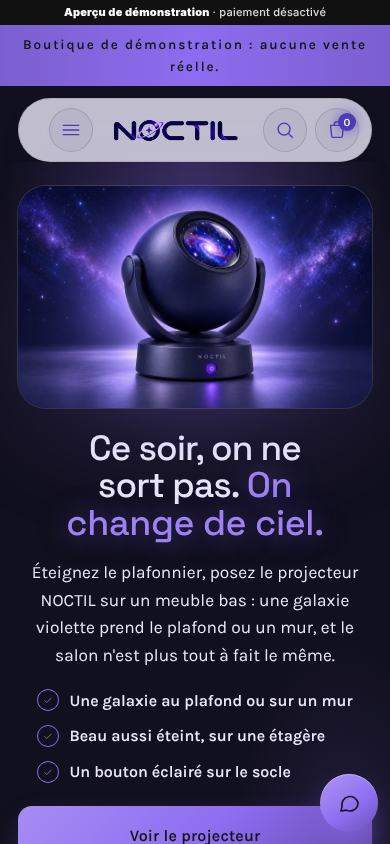
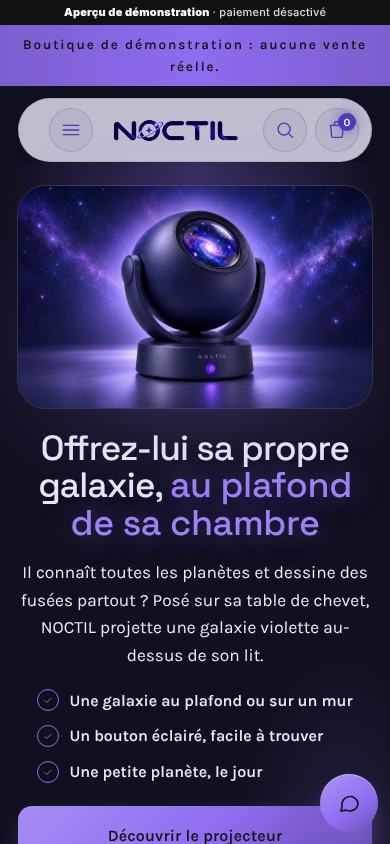
NOCTIL : « offrir à son enfant sa propre galaxie dans sa chambre », l'enfant utilise, le parent achète (consigne de Thomas, 21 h 45)
- Cible adulte retirée ; accueil, fiche, « Où poser sa galaxie », aide, menus, pied, SEO réécrits pour le cadeau et
  l'imagination de l'enfant passionné d'espace.
- Aucune promesse sur le coucher, le sommeil ou la peur du noir (objection traitée honnêtement) ; âge conseillé,
  alimentation et réglages non renseignés, question « À partir de quel âge ? » prête dans l'éditeur.
- Visuels : aucune chambre d'enfant dans le kit, signalé ; l'objet seul, la vue au-dessus du lit et l'alcôve passent
  devant, les scènes d'adultes deviennent « ailleurs dans la maison ». Captures régénérées.

Claude-Session: https://claude.ai/code/session_01EKtK8Za16S8DnNDefXRRF7

Changed region(s): [[0.0615, 0.4929, 0.9538, 0.8009], [0.1846, 0.8626, 0.8308, 0.9242], [0.2769, 0.9858, 0.7385, 1.0]]

diff --git a/tests/noctil-traverse-fixtures.ts b/tests/noctil-traverse-fixtures.ts
@@ -80,23 +80,30 @@ export const TODO = (what: string) => `[À compléter : ${what}]`;
 const DEMO_BANNER = "Boutique de démonstration : aucune vente réelle.";
 export const ORDER_FAQ = (brand: string): [string, string] => ["Peut-on commander aujourd'hui ?", `Pas encore : la boutique ${brand} présentée ici est une démonstration. Aucune commande n'y est enregistrée et aucun paiement n'est demandé.`];
 
-// NOCTIL — fiche de stratégie (consigne du 21 octobre, 19 h 50 ; hypothèse éditoriale, pas une étude). Une seule cible :
-//  1. cible : un adulte qui rentre chez lui le soir et voudrait que sa soirée à la maison ressemble à autre chose qu'au
-//     plafonnier et à l'écran (salon, bureau, coin lecture : les pièces des photos) ;
-//  2. tension : « Le soir, c'est toujours le même salon sous le même plafonnier. » ;
-//  3. désir : changer d'atmosphère sans sortir — angle unique : ce soir, on ne sort pas, on change de ciel ;
-//  4. promesse tenable : une galaxie projetée au plafond ou sur un mur, et un bel objet une fois éteint ; faits = visuels.
-//     Aucun bienfait sur le sommeil ou le bien-être ; alimentation, réglages, dimensions inconnus ;
-//  5. objections : où s'affiche la galaxie, faut-il le noir complet, à quoi il ressemble le jour, prix et réglages
-//     (information dédiée) ;
-//  6. parcours : ouverture (se reconnaître) → ce qui change → où le poser → l'idée → l'objet de près → appel → FAQ → inscription.
+// NOCTIL — fiche de stratégie (consigne de Thomas du 21 octobre, 21 h 45 ; brief, hypothèse éditoriale). Décision
+// explicite : les ENFANTS sont les utilisateurs, le PARENT est l'acheteur.
+//  utilisateur : un enfant passionné d'espace (planètes, fusées, étoiles) ; acheteur : son parent, qui cherche une surprise ;
+//  situation d'achat : un anniversaire, Noël, ou l'envie de lui faire plaisir ;
+//  tension (mots du parent) : « Il connaît toutes les planètes ; je voudrais lui offrir autre chose qu'un livre de plus. » ;
+//  désir : voir son enfant émerveillé, et lui laisser imaginer ;
+//  angle unique : offrir à son enfant sa propre galaxie dans sa chambre ;
+//  promesse tenable : une galaxie violette projetée au plafond ou sur un mur ; un bouton éclairé facile à repérer ; un bel
+//  objet le jour ; faits = visuels du kit ;
+//  objections : où s'affiche la galaxie, peut-il l'allumer seul, l'aide-t-il le soir (aucune promesse), et le jour, âge
+//  conseillé et alimentation (non renseignés : à vérifier avant d'offrir) ;
+//  exclusions : aucun effet sur le coucher, le sommeil ou la peur du noir ; aucun âge, réglage, autonomie ou dimension
+//  inventés ; aucune personne ajoutée. Visuels : le kit ne contient AUCUNE chambre d'enfant (salon cinéma, bureau, loft,
+//  chambre et coin lecture d'adultes) : la chambre est montrée par la vue « au-dessus du lit », l'alcôve à coussins et
+//  l'objet seul ; les autres scènes sont présentées comme « ailleurs dans la maison ».
 export const NOCTIL_FAQ: [string, string][] = [
-  ["Où la galaxie s'affiche-t-elle ?", "Au plafond ou sur un mur, selon l'endroit où vous posez NOCTIL et la direction de son objectif. Nos images montrent les deux."],
-  ["Faut-il le noir complet ?", "Plus la pièce est sombre, plus la galaxie ressort. Sur nos photos, la grande lumière est éteinte ; dans le coin lecture, une lampe reste allumée à côté."],
-  ["Et le jour, à quoi ressemble-t-il ?", "À une sphère indigo mate sur son arceau, posée sur un socle rond : sur une étagère, c'est un objet de décor. Toutes les vues sont sur la fiche."],
-  ["Que puis-je faire dans cette boutique de démonstration ?", "Faire le tour du projecteur et le voir dans plusieurs pièces. Le prix, l'alimentation, les réglages et les dimensions ne sont pas encore renseignés, et la commande est désactivée."],
+  ["Où la galaxie s'affiche-t-elle ?", "Au plafond ou sur un mur, selon l'endroit où vous posez NOCTIL et la direction de son objectif. Sur une table de chevet, objectif vers le haut, elle couvre le plafond au-dessus du lit."],
+  ["Mon enfant peut-il l'allumer seul ?", "Le bouton est sur le socle, éclairé de violet : il se repère même dans la pénombre. L'âge conseillé et l'alimentation ne sont pas encore renseignés ; vérifiez-les avant de le lui confier."],
+  ["L'aide-t-il le soir, au coucher ou s'il a peur du noir ?", "Nous ne promettons rien de tel. NOCTIL est un décor à regarder et à raconter : une galaxie au plafond, pour rêver d'espace."],
+  ["Et le jour, à quoi ressemble-t-il ?", "À une sphère indigo mate sur son arceau, comme une petite planète posée sur un socle rond : sur une étagère, c'est un objet de décor."],
+  ["Que puis-je faire dans cette boutique de démonstration ?", "Faire le tour du projecteur et le voir dans plusieurs pièces. Le prix, l'âge conseillé, l'alimentation, les réglages et les dimensions ne sont pas encore renseignés, et la commande est désactivée."],
 ];
 export const NOCTIL_FAQ_PENDING: [string, string][] = [
+  ["À partir de quel âge ?", TODO("âge conseillé et consignes de sécurité")],
   ["Comment NOCTIL est-il alimenté ?", TODO("alimentation, câble ou batterie, autonomie")],
   ["Quels réglages propose-t-il ?", TODO("luminosité, couleurs, modes, minuterie, télécommande ou application")],
   ["Quelles sont ses dimensions et son poids ?", TODO("hauteur, diamètre, poids")],
@@ -135,7 +142,7 @@ const BRANDS: Record<KitId, Brand> = {
     name: "NOCTIL", product: "Projecteur de galaxies NOCTIL", category: "Projecteur de galaxies",
     summary: "Projecteur de galaxies : sphère indigo mate tenue par un arceau, objectif rond à l'avant, socle rond avec un bouton éclairé de violet ; la galaxie s'affiche au plafond ou sur un mur.",
     facts: [["Silhouette", "sphère indigo mate sur un arceau, socle rond"], ["Commande visible", "un bouton éclairé de violet sur le socle"]],
-    tagline: "La nuit, à portée de plafond.", story: "NOCTIL est né d'une envie simple : garder un morceau de ciel nocturne à la maison.", positioning: "Un projecteur de galaxies pour le salon, la chambre et les coins où l'on aime éteindre la grande lumière.",
+    tagline: "Sa galaxie, au plafond de sa chambre.", story: "NOCTIL est né pour les enfants qui collectionnent les planètes : leur offrir un morceau de ciel à eux, au-dessus de leur lit.", positioning: "Un projecteur de galaxies à offrir aux enfants passionnés d'espace, pour leur chambre.",
     // Indigo et violet relevés sur le logo et les visuels ; lavande des vues produit ; nuit profonde.
     palette: { primary: "#4B3BB8", secondary: "#ECE8FA", accent: "#8E6CF0", light: "#ECE8FA", dark: "#0D0B26" },
   },
@@ -300,79 +307,79 @@ export type Kit = ReturnType<typeof kit>;
 function curateNoctil(k: Kit) {
   const { spec, img, section, hide, overlay, faq, productHref } = k;
   k.demoMeta();
-  spec.store.seo = { title: "NOCTIL | Projecteur de galaxies : ce soir, changez de ciel sans sortir", description: "Éteignez le plafonnier : NOCTIL projette une galaxie au plafond ou sur un mur du salon, du bureau ou du coin lecture. Beau aussi éteint, sur une étagère." };
+  spec.store.seo = { title: "NOCTIL | Offrez à votre enfant sa propre galaxie, dans sa chambre", description: "Pour l'enfant passionné d'espace : NOCTIL projette une galaxie violette au plafond de sa chambre. Un cadeau à regarder et à raconter, beau aussi éteint." };
   k.product({
     title: "Projecteur de galaxies NOCTIL",
-    description_html: p("Son rôle : changer l'atmosphère d'une pièce le soir, sans sortir. Posé sur un meuble, il projette une galaxie au plafond ou sur un mur.") + p("Ce qu'on voit : une sphère indigo mate tenue par un arceau, un objectif rond ouvert sur une galaxie, un socle rond au bouton éclairé de violet.") + p("Où le poser : au salon, au bureau, dans le coin lecture ou sur une table de chevet ; nos photos le montrent dans chacune de ces pièces. Éteint, il reste un objet de décor."),
+    description_html: p("Pour qui : l'enfant qui connaît les planètes par cœur, et le parent qui veut lui faire une surprise. Posé sur sa table de chevet, NOCTIL projette une galaxie violette au plafond de sa chambre.") + p("Ce qu'on voit : une sphère indigo mate, comme une petite planète, tenue par un arceau ; un objectif rond ouvert sur une galaxie ; un socle rond au bouton éclairé de violet.") + p("Avant d'offrir : l'âge conseillé, l'alimentation et les réglages ne sont pas encore renseignés dans cette démonstration."),
     images: ["produit-01.webp", "produit-02.webp", "produit-03.webp", "produit-04.webp", "produit-05.webp"],
-    tags: ["projecteur", "galaxie", "décoration de nuit"],
-    seo: { title: "Projecteur de galaxies NOCTIL : vues, détails, mise en place", description: "Découvrez NOCTIL, projecteur de galaxies : sphère indigo sur arceau, objectif et socle lumineux en gros plan, et comment le placer dans une pièce." },
+    tags: ["projecteur", "galaxie", "cadeau", "chambre d'enfant"],
+    seo: { title: "NOCTIL : le projecteur de galaxies des enfants passionnés d'espace", description: "Une galaxie violette au plafond de sa chambre : NOCTIL en détail, sphère indigo, objectif, socle et bouton éclairé, et comment le placer." },
   });
 
-  // ─── Accueil : une narration de nuit, pièce par pièce. ──────────────────────────────────────────────────────────
+  // ─── Accueil : le cadeau, la chambre, l'imagination. ────────────────────────────────────────────────────────────
   overlay("index", [
-    section("cv-hero", { ...img("ambiance-10.webp"), image_ratio: "wide", focus_x: 50, focus_y: 50, layout: "stacked", heading: "Ce soir, on ne sort pas.", heading_accent: "On change de ciel.", heading_tag: "h1", text: p("Éteignez le plafonnier, posez le projecteur NOCTIL sur un meuble bas : une galaxie violette prend le plafond ou un mur, et le salon n'est plus tout à fait le même."), button_label: "Voir le projecteur", button_link: productHref, rating_text: "", rating_note: "", guarantee_text: "", animation: "fade" }, [
+    section("cv-hero", { ...img("ambiance-10.webp"), image_ratio: "wide", focus_x: 50, focus_y: 50, layout: "stacked", heading: "Offrez-lui sa propre galaxie,", heading_accent: "au plafond de sa chambre", heading_tag: "h1", text: p("Il connaît toutes les planètes et dessine des fusées partout ? Posé sur sa table de chevet, NOCTIL projette une galaxie violette au-dessus de son lit."), button_label: "Découvrir le projecteur", button_link: productHref, rating_text: "", rating_note: "", guarantee_text: "", animation: "fade" }, [
       { type: "check", settings: { text: "Une galaxie au plafond ou sur un mur" } },
-      { type: "check", settings: { text: "Beau aussi éteint, sur une étagère" } },
-      { type: "check", settings: { text: "Un bouton éclairé sur le socle" } },
+      { type: "check", settings: { text: "Un bouton éclairé, facile à trouver" } },
+      { type: "check", settings: { text: "Une petite planète, le jour" } },
     ]),
-    section("features-grid", { eyebrow: "Ce qui change", heading: "La même pièce, <em>une autre soirée</em>", layout: "grid", columns: 4, columns_mobile: "2", style: "glow", heading_align: "center", link_label: "", link: "" }, [
-      { type: "feature", settings: { icon: "star", title: "Le plafond devient un ciel", text: p("La galaxie se déploie au-dessus de vous : le plafond devient le décor de la soirée."), link_label: "", link: "" } },
-      { type: "feature", settings: { icon: "waves", title: "Des murs en profondeur", text: p("Projetée sur un mur, la lumière violette et bleue donne du relief aux pièces les plus simples."), link_label: "", link: "" } },
-      { type: "feature", settings: { icon: "sparkle", title: "Beau même éteint", text: p("Sphère indigo mate, socle rond, nom discret : NOCTIL a sa place sur une étagère en plein jour."), link_label: "", link: "" } },
-      { type: "feature", settings: { icon: "hand", title: "Un bouton, en vue", text: p("Sur le socle, un bouton éclairé de violet : on le trouve même dans la pénombre."), link_label: "", link: "" } },
+    section("features-grid", { eyebrow: "Ce qu'il découvre", heading: "Sa chambre, <em>son univers</em>", layout: "grid", columns: 4, columns_mobile: "2", style: "glow", heading_align: "center", link_label: "", link: "" }, [
+      { type: "feature", settings: { icon: "star", title: "Un ciel rien qu'à lui", text: p("Allongé sur son lit, il lève les yeux : la galaxie couvre le plafond."), link_label: "", link: "" } },
+      { type: "feature", settings: { icon: "waves", title: "Des voyages à inventer", text: p("Une spirale violette et des milliers de points lumineux : de quoi imaginer des expéditions entre les étoiles."), link_label: "", link: "" } },
+      { type: "feature", settings: { icon: "sparkle", title: "Une petite planète", text: p("Le jour, la sphère indigo reste posée sur son étagère, comme un astre de collection."), link_label: "", link: "" } },
+      { type: "feature", settings: { icon: "hand", title: "Un bouton qu'il trouve", text: p("Sur le socle, un bouton éclairé de violet, visible dans la pénombre."), link_label: "", link: "" } },
     ]),
-    section("cv-gallery", { layout: "carousel", ratio: "portrait", eyebrow: "Pièce par pièce", heading: "Où le poser", heading_accent: "ce soir", text: p("Le coin lecture, la table de chevet, une alcôve, la table basse : la même galaxie, quatre soirées différentes."), ai_label: "" }, [
-      { type: "image", settings: { ...img("ambiance-07.webp"), caption: "Le coin lecture" } },
+    section("cv-gallery", { layout: "carousel", ratio: "portrait", eyebrow: "Dans la maison", heading: "Sa chambre d'abord,", heading_accent: "et ailleurs ensuite", text: p("Au-dessus du lit, dans un coin à coussins, au salon pour une histoire du soir : la galaxie se déplace avec lui."), ai_label: "" }, [
       { type: "image", settings: { ...img("ambiance-09.webp"), caption: "Au-dessus du lit" } },
-      { type: "image", settings: { ...img("ambiance-04.webp"), caption: "L'alcôve lavande" } },
-      { type: "image", settings: { ...img("ambiance-05.webp"), caption: "Un ciel violet au plafond" } },
+      { type: "image", settings: { ...img("ambiance-04.webp"), caption: "Une alcôve à coussins, sous les étoiles" } },
+      { type: "image", settings: { ...img("ambiance-07.webp"), caption: "Une histoire au coin lecture" } },
+      { type: "image", settings: { ...img("ambiance-05.webp"), caption: "Tout le plafond en violet" } },
     ]),
-    section("image-with-text", { ...img("ambiance-01.webp"), layout: "overlap", ratio: "portrait", reveal: "up", parallax: false, eyebrow: "L'idée", heading: "Quand le jour se retire, la pièce change de taille", text: p("Au crépuscule, la ville s'allume derrière le voilage. On éteint la grande lumière, NOCTIL prend le relais : le plafond recule, la soirée commence autrement."), button_label: "Voir les pièces", button_link: "/pages/univers" }),
-    section("cv-cards", { layout: "columns", heading: "Éteint,", heading_accent: "un objet de décor", text: p("En plein jour, voici ce qu'on voit sur l'étagère.") }, [
+    section("image-with-text", { ...img("ambiance-01.webp"), layout: "overlap", ratio: "portrait", reveal: "up", parallax: false, eyebrow: "Le moment", heading: "Quand le jour tombe, son univers s'allume", text: p("Les rideaux se ferment, la grande lumière s'éteint, la galaxie apparaît. Un rendez-vous qu'un petit passionné d'espace peut attendre toute la journée."), button_label: "Voir où le poser", button_link: "/pages/univers" }),
+    section("cv-cards", { layout: "columns", heading: "Le jour,", heading_accent: "une planète sur l'étagère", text: p("Éteint, NOCTIL reste un objet qu'on a plaisir à regarder.") }, [
       { type: "card", settings: { ...img("produit-04.webp"), title: "L'objectif", text: p("Un objectif rond et cerclé, où l'on voit déjà la galaxie.") } },
-      { type: "card", settings: { ...img("produit-05.webp"), title: "Le socle et son bouton", text: p("Un socle rond, le nom NOCTIL et un bouton éclairé de violet.") } },
+      { type: "card", settings: { ...img("produit-05.webp"), title: "Le socle et son bouton", text: p("Le nom NOCTIL et un bouton éclairé de violet, à portée de petite main.") } },
       { type: "card", settings: { ...img("produit-02.webp"), title: "La sphère sur son arceau", text: p("De profil : la sphère tenue entre les deux branches de son arceau.") } },
     ]),
-    section("cta-banner", { ...img("ambiance-08.webp"), heading: "Faites entrer la nuit dans votre salon", text: p("Toutes les vues de NOCTIL et où le poser, sur sa fiche."), button_label: "Voir le projecteur", button_link: productHref, style: "center", parallax: false, overlay: 55 }),
-    faq("Avant de l'allumer", NOCTIL_FAQ.slice(0, 4), "cards", "stacked", "Où s'affiche la galaxie, le noir complet, l'objet le jour, ce que permet la démonstration."),
-    section("newsletter", { eyebrow: "Nouvelles de NOCTIL", heading: "Être prévenu quand NOCTIL ouvre", text: p("Un e-mail à l'ouverture de la boutique. Rien d'autre."), button_label: "Me prévenir", preview_note: true, legal: p("Désinscription possible à tout moment depuis chaque e-mail.") }),
+    section("cta-banner", { ...img("ambiance-08.webp"), heading: "Le cadeau qui fait lever les yeux", text: p("Anniversaire, Noël ou simple surprise : toutes les vues de NOCTIL sont sur sa fiche."), button_label: "Découvrir le projecteur", button_link: productHref, style: "center", parallax: false, overlay: 55 }),
+    faq("Avant de l'offrir", NOCTIL_FAQ.slice(0, 5), "cards", "stacked", "Où s'affiche la galaxie, l'allumer seul, le soir, l'objet le jour, ce que permet la démonstration."),
+    section("newsletter", { eyebrow: "Nouvelles de NOCTIL", heading: "Être prévenu quand NOCTIL ouvre", text: p("Un e-mail à l'ouverture de la boutique, pour préparer la surprise. Rien d'autre."), button_label: "Me prévenir", preview_note: true, legal: p("Désinscription possible à tout moment depuis chaque e-mail.") }),
   ]);
 
   // ─── Fiche produit ──────────────────────────────────────────────────────────────────────────────────────────────
   k.mainProduct({
-    eyebrow: "Projecteur de galaxies · pour le soir",
-    text: "Éteignez le plafonnier, tournez l'objectif vers le plafond ou un mur : une galaxie violette change l'atmosphère de la pièce.",
-    highlights: "Une galaxie au plafond ou sur un mur\nSphère indigo mate sur un arceau\nUn bouton éclairé sur le socle\nPour le salon, la chambre et le bureau",
+    eyebrow: "Projecteur de galaxies · à offrir",
+    text: "Pour l'enfant qui collectionne les planètes : posé sur sa table de chevet, NOCTIL projette une galaxie violette au plafond de sa chambre.",
+    highlights: "Une galaxie au plafond ou sur un mur\nUn bouton éclairé, facile à trouver\nUne sphère indigo, comme une petite planète\nUn cadeau pour les passionnés d'espace",
     description: spec.store.product.description_html,
-    specs: "alimentation et autonomie, luminosité, couleurs et modes, minuterie, télécommande ou application, dimensions, poids, matériaux, certifications",
+    specs: "âge conseillé, alimentation et autonomie, luminosité, couleurs et modes, minuterie, télécommande ou application, dimensions, poids, matériaux, certifications",
     box: "contenu exact du coffret",
     shipping: "zones, délais et frais de livraison ; délai et conditions de retour ; durée de garantie",
     settings: { gallery_layout: "carousel", gallery_ratio: "square", enable_zoom: true, sticky_bar: true, color_scheme: "scheme-1" },
   });
   overlay(k.productKey(), [
-    section("cv-ingredients", { layout: "cards", columns: 3, eyebrow: "Composition visible", heading: "Ce qui compose", heading_accent: "NOCTIL", text: p("Les éléments que l'on voit sur l'objet, du haut vers le bas."), note: "", image_asset: "" }, [
+    section("cv-ingredients", { layout: "cards", columns: 3, eyebrow: "Ce qu'on voit", heading: "Une petite planète,", heading_accent: "pièce par pièce", text: p("Les éléments que l'on voit sur l'objet, du haut vers le bas."), note: "", image_asset: "" }, [
       { type: "ingredient", settings: { icon: "globe", name: "La sphère", role: "Corps rond, indigo mat, qui porte l'objectif.", note: "", badge: "", image_asset: "" } },
-      { type: "ingredient", settings: { icon: "sparkle", name: "L'objectif", role: "Lentille ronde et cerclée, côté face.", note: "", badge: "", image_asset: "" } },
+      { type: "ingredient", settings: { icon: "sparkle", name: "L'objectif", role: "Lentille ronde et cerclée, d'où sort la galaxie.", note: "", badge: "", image_asset: "" } },
       { type: "ingredient", settings: { icon: "hand", name: "L'arceau", role: "Deux branches qui tiennent la sphère de chaque côté.", note: "", badge: "", image_asset: "" } },
       { type: "ingredient", settings: { icon: "shield", name: "Le socle", role: "Base ronde où figure le nom NOCTIL.", note: "", badge: "", image_asset: "" } },
-      { type: "ingredient", settings: { icon: "bolt", name: "Le bouton", role: "Un bouton éclairé de violet sur le socle.", note: "", badge: "", image_asset: "" } },
+      { type: "ingredient", settings: { icon: "bolt", name: "Le bouton", role: "Éclairé de violet, visible dans la pénombre.", note: "", badge: "", image_asset: "" } },
       { type: "ingredient", settings: { icon: "check", name: "Matériaux", role: TODO("matériaux de la sphère, de l'arceau et du socle"), note: "", badge: "", image_asset: "" }, hidden: true },
     ]),
-    section("content-tabs", { eyebrow: "En un coup d'œil", heading: "NOCTIL, en trois regards", tab_style: "pills", image_position: "right" }, [
-      { type: "tab", settings: { title: "Silhouette", icon: "sparkle", heading: "Une sphère, un arceau, un socle", content: "<ul><li>Sphère indigo mate</li><li>Objectif rond et cerclé, à l'avant</li><li>Arceau à deux branches</li><li>Socle rond avec le nom NOCTIL</li><li>Bouton éclairé de violet</li></ul>", ...img("produit-03.webp"), button_label: "", button_link: "" } },
-      { type: "tab", settings: { title: "Dans la pièce", icon: "heart", heading: "Au plafond ou sur un mur", content: p("Posé sur un meuble bas, une table de chevet ou une étagère, NOCTIL habille le mur ou le plafond qu'il regarde. Nos photos le montrent dans un salon, une chambre, un bureau et un coin lecture."), ...img("ambiance-06.webp"), button_label: "Voir les pièces", button_link: "/pages/univers" } },
-      { type: "tab", settings: { title: "Fiche technique", icon: "clock", heading: "Fiche technique", content: p(TODO("alimentation, autonomie, luminosité, modes, dimensions, poids")), image_asset: "", button_label: "", button_link: "" }, hidden: true },
+    section("content-tabs", { eyebrow: "Avant de l'offrir", heading: "NOCTIL, en trois regards", tab_style: "pills", image_position: "right" }, [
+      { type: "tab", settings: { title: "Silhouette", icon: "sparkle", heading: "Une sphère, un arceau, un socle", content: "<ul><li>Sphère indigo mate, comme une petite planète</li><li>Objectif rond et cerclé, à l'avant</li><li>Arceau à deux branches</li><li>Socle rond avec le nom NOCTIL</li><li>Bouton éclairé de violet</li></ul>", ...img("produit-03.webp"), button_label: "", button_link: "" } },
+      { type: "tab", settings: { title: "Où le poser", icon: "heart", heading: "Au plafond de sa chambre, ou sur un mur", content: p("Sur la table de chevet ou une étagère de sa chambre, NOCTIL habille le plafond ou le mur qu'il regarde. Il se déplace aussi : nos photos le montrent au salon, sur un bureau et dans un coin lecture."), ...img("ambiance-06.webp"), button_label: "Voir où le poser", button_link: "/pages/univers" } },
+      { type: "tab", settings: { title: "Fiche technique", icon: "clock", heading: "Fiche technique", content: p(TODO("âge conseillé, alimentation, autonomie, luminosité, modes, dimensions, poids")), image_asset: "", button_label: "", button_link: "" }, hidden: true },
     ]),
-    section("timeline", { eyebrow: "Mise en place", heading: "Préparer", heading_accent: "sa soirée", image_asset: "" }, [
-      { type: "step", settings: { title: "Choisir la pièce", text: p("Salon, chambre, coin lecture : là où vous voulez passer la soirée.") } },
-      { type: "step", settings: { title: "Poser NOCTIL", text: p("Sur un meuble bas, une table de chevet ou une étagère, objectif tourné vers le mur ou le plafond à habiller.") } },
+    section("timeline", { eyebrow: "Le soir venu", heading: "Préparer", heading_accent: "la surprise", image_asset: "" }, [
+      { type: "step", settings: { title: "Choisir sa place", text: p("La table de chevet ou une étagère de sa chambre.") } },
+      { type: "step", settings: { title: "Tourner l'objectif", text: p("Vers le plafond au-dessus du lit, ou vers le mur qu'il préfère.") } },
       { type: "step", settings: { title: "Éteindre la grande lumière", text: p("Moins il y a de lumière autour, plus la galaxie ressort, comme sur nos photos.") } },
-      { type: "step", settings: { title: "Profiter", text: p("Un film, un livre, une conversation : la pièce a changé d'atmosphère.") } },
+      { type: "step", settings: { title: "Lever les yeux ensemble", text: p("Montrez-lui la spirale, et laissez-le raconter la suite du voyage.") } },
     ]),
-    section("cv-feature", { ...img("ambiance-03.webp"), layout: "stacked", heading: "Une lueur indigo,", heading_accent: "même posée seule", text: p("Sur un plan sombre, NOCTIL se suffit : la sphère, son halo, et la nuit qui commence."), button_label: "", button_link: "", guarantee_text: "" }, [
-      { type: "point", settings: { icon: "sparkle", title: "Une silhouette ronde", text: p("Une sphère que l'on reconnaît au premier regard.") } },
-      { type: "point", settings: { icon: "heart", title: "Un objet de décor", text: p("Indigo mat le jour, galaxie le soir.") } },
+    section("cv-feature", { ...img("ambiance-03.webp"), layout: "stacked", heading: "Une lueur indigo,", heading_accent: "même posée seule", text: p("Sur un plan sombre, NOCTIL se suffit : la sphère, son halo, et l'univers qui commence."), button_label: "", button_link: "", guarantee_text: "" }, [
+      { type: "point", settings: { icon: "sparkle", title: "Une silhouette ronde", text: p("Une planète que l'on reconnaît au premier regard.") } },
+      { type: "point", settings: { icon: "heart", title: "Un objet de chambre", text: p("Indigo mat le jour, galaxie le soir.") } },
       { type: "point", settings: { icon: "hand", title: "Un seul bouton en vue", text: p("Sur le socle, éclairé de violet.") } },
     ]),
     hide(section("fs-commitments", { layout: "grid", eyebrow: "Avant la mise en vente", heading: "Livraison, retours", heading_accent: "et garantie", text: "", align: "center", button_label: "", button_link: "", note: "" }, [
@@ -385,23 +392,23 @@ function curateNoctil(k: Kit) {
   ]);
 
   // ─── Pages ──────────────────────────────────────────────────────────────────────────────────────────────────────
-  k.page("univers", "Une galaxie par pièce", { title: "Une galaxie par pièce : salon, bureau, coin lecture | NOCTIL", description: "Salon cinéma, bureau, coin lecture : trois pièces où NOCTIL projette sa galaxie, en photos, pour imaginer la vôtre." }, [
-    ["intro", section("rich-text", { style: "plain", align: "center", color_scheme: "scheme-1", padding_top: 24, padding_bottom: 32 }, [{ type: "text", settings: { text: p("NOCTIL ne cherche pas une pièce en particulier : il s'adapte à celle où vous éteignez la grande lumière. Voici trois pièces où nous l'avons posé.") } }])],
-    ["pieces", section("cv-alternating", { layout: "alternate", ratio: "landscape", eyebrow: "Trois pièces", heading: "Là où", heading_accent: "NOCTIL se pose", text: "", color_scheme: "scheme-4" }, [
-      { type: "row", settings: { ...img("ambiance-02.webp"), eyebrow: "Salon cinéma", heading: "La galaxie", heading_accent: "au-dessus de l'écran", text: p("Canapé, écran, lumières éteintes : la galaxie prend le plafond et la séance commence avant le film."), button_label: "", button_link: "" } },
-      { type: "row", settings: { ...img("ambiance-06.webp"), eyebrow: "Bureau", heading: "Un mur", heading_accent: "pour finir la journée", text: p("Ordinateur fermé, NOCTIL allumé : le mur derrière le bureau change de rôle."), button_label: "", button_link: "" } },
-      { type: "row", settings: { ...img("ambiance-07.webp"), eyebrow: "Coin lecture", heading: "Un fauteuil,", heading_accent: "une lampe, une galaxie", text: p("La lampe pour lire, NOCTIL pour le décor : deux lumières qui se partagent la pièce."), button_label: "", button_link: "" } },
+  k.page("univers", "Où poser sa galaxie", { title: "Où poser sa galaxie : sa chambre et ailleurs | NOCTIL", description: "Au-dessus de son lit d'abord ; au salon pour une soirée en famille, dans un coin lecture ou sur un bureau ensuite : où placer NOCTIL, en photos." }, [
+    ["intro", section("rich-text", { style: "plain", align: "center", color_scheme: "scheme-1", padding_top: 24, padding_bottom: 32 }, [{ type: "text", settings: { text: p("Sa chambre d'abord. Mais NOCTIL se déplace : voici trois pièces où nous l'avons posé, pour une soirée en famille ou une histoire avant d'éteindre.") } }])],
+    ["pieces", section("cv-alternating", { layout: "alternate", ratio: "landscape", eyebrow: "Ailleurs dans la maison", heading: "Là où", heading_accent: "la galaxie le suit", text: "", color_scheme: "scheme-4" }, [
+      { type: "row", settings: { ...img("ambiance-02.webp"), eyebrow: "Soirée film", heading: "La galaxie", heading_accent: "au-dessus de l'écran", text: p("Canapé, plaid, lumières éteintes : toute la famille sous le même ciel avant le film."), button_label: "", button_link: "" } },
+      { type: "row", settings: { ...img("ambiance-06.webp"), eyebrow: "Sur un bureau", heading: "Un mur", heading_accent: "plein d'étoiles", text: p("Posé sur un bureau, objectif vers le mur : la galaxie prend toute la place derrière l'écran."), button_label: "", button_link: "" } },
+      { type: "row", settings: { ...img("ambiance-07.webp"), eyebrow: "Coin lecture", heading: "Un fauteuil,", heading_accent: "une histoire, une galaxie", text: p("La lampe pour lire l'histoire, NOCTIL pour le décor : deux lumières qui se partagent la pièce."), button_label: "", button_link: "" } },
     ])],
-    ["cta", section("cta-banner", { heading: "Trouvez sa place chez vous", text: p("Toutes les vues de NOCTIL et la façon de le placer, sur sa fiche."), button_label: "Voir NOCTIL", button_link: productHref, image_asset: "", style: "center", parallax: false, color_scheme: "scheme-2", padding_top: 88, padding_bottom: 88 })],
+    ["cta", section("cta-banner", { heading: "Choisir sa place dans sa chambre", text: p("Toutes les vues de NOCTIL, et comment le placer au-dessus de son lit, sur sa fiche."), button_label: "Découvrir le projecteur", button_link: productHref, image_asset: "", style: "center", parallax: false, color_scheme: "scheme-2", padding_top: 88, padding_bottom: 88 })],
   ]);
-  k.page("aide", "Questions et contact", { title: "Questions et contact | NOCTIL, projecteur de galaxies", description: "Où s'affiche la galaxie, faut-il le noir complet, l'objet le jour, ce que permet la démonstration : nos réponses sur NOCTIL, et un formulaire." }, [
+  k.page("aide", "Questions et contact", { title: "Questions et contact | NOCTIL, projecteur de galaxies à offrir", description: "Où s'affiche la galaxie, peut-il l'allumer seul, le soir, l'objet le jour : nos réponses sur NOCTIL, et un formulaire." }, [
     ["faq", faq("Questions fréquentes", [...NOCTIL_FAQ, ...NOCTIL_FAQ_PENDING], "numbered", "stacked", "", { color_scheme: "scheme-1" })],
-    ["form", section("contact-form", { eyebrow: "Contact", heading: "Une question avant de l'allumer ?", text: p("Écrivez-nous : le formulaire vérifie les champs avant l'envoi. Dans cette démonstration, aucun message n'est réellement transmis."), email: "", hours: "", response: "", preview_note: true, color_scheme: "scheme-4", padding_top: 64, padding_bottom: 96 })],
+    ["form", section("contact-form", { eyebrow: "Contact", heading: "Une question avant de l'offrir ?", text: p("Écrivez-nous : le formulaire vérifie les champs avant l'envoi. Dans cette démonstration, aucun message n'est réellement transmis."), email: "", hours: "", response: "", preview_note: true, color_scheme: "scheme-4", padding_top: 64, padding_bottom: 96 })],
   ]);
 
   // ─── Menus, en-tête « barre flottante » sur lavande, pied « centré » ────────────────────────────────────────────
-  spec.store.menus["main-menu"] = { title: "Navigation", links: [{ title: "Le projecteur", url: productHref }, { title: "Les pièces", url: "/pages/univers" }, { title: "Questions et contact", url: "/pages/aide" }] };
-  spec.store.menus.footer = { title: "Aide", links: [{ title: "Le projecteur", url: productHref }, { title: "Les pièces", url: "/pages/univers" }, { title: "Questions et contact", url: "/pages/aide" }, { title: "Recherche", url: "/search" }] };
+  spec.store.menus["main-menu"] = { title: "Navigation", links: [{ title: "Le projecteur", url: productHref }, { title: "Où le poser", url: "/pages/univers" }, { title: "Questions et contact", url: "/pages/aide" }] };
+  spec.store.menus.footer = { title: "Aide", links: [{ title: "Le projecteur", url: productHref }, { title: "Où le poser", url: "/pages/univers" }, { title: "Questions et contact", url: "/pages/aide" }, { title: "Recherche", url: "/search" }] };
   const header = Object.values(spec.groups.header.sections).find((s) => s.type === "header")!;
   header.settings = { ...header.settings, menu: "main-menu", layout: "logo-left", shape: "pill", icons: "circles", mega_menu: "none", mobile_menu: "sheet", sticky: true, transparent_on_home: false, show_search: true, show_cart: true, cta_label: "", phone: "", color_scheme: "scheme-2" };
   header.blocks = {}; header.block_order = [];
@@ -410,7 +417,7 @@ function curateNoctil(k: Kit) {
   const footer = Object.values(spec.groups.footer.sections).find((s) => s.type === "footer")!;
   footer.settings = { ...footer.settings, style: "centered", show_wordmark: false, show_policies: false, show_payment: false, color_scheme: "scheme-2", logo_asset: "" };
   footer.blocks = {
-    about: { type: "text", settings: { heading: "NOCTIL", text: p("Le projecteur de galaxies des soirées à la maison : salon, bureau, coin lecture. Marque de démonstration du studio.") } },
+    about: { type: "text", settings: { heading: "NOCTIL", text: p("Le projecteur de galaxies à offrir aux enfants passionnés d'espace, pour leur chambre. Marque de démonstration du studio.") } },
     links: { type: "links", settings: { heading: "Aide", menu: "footer" } },
     news: { type: "newsletter", settings: { heading: "Nouvelles de NOCTIL", text: "Aperçu : inscription non enregistrée dans la démonstration." } },
   };

diff --git a/docs/COPYWRITING-themes.md b/docs/COPYWRITING-themes.md
@@ -134,20 +134,33 @@ jour », aide, pied, SEO. Preuves : `docs/preuves/copywriting/heuren/`.
 Pages réécrites : accueil, fiche (« Un arc autour de l'assise »), « Pièce par pièce », aide, pied, SEO. Preuves :
 `docs/preuves/copywriting/alcove/`.
 
-### NOCTIL — Produit spécifique — **réécrit** (une seule cible)
+### NOCTIL — Spécialisée — **réécrit (consigne 21 h 45)** : l'enfant utilise, le parent achète
 
-1. **Cible retenue** : un adulte qui rentre le soir et voudrait que sa soirée à la maison ressemble à autre chose qu'au
-   plafonnier et à l'écran (salon, bureau, coin lecture). La piste « parent et coucher de l'enfant » est écartée pour cette démo.
-2. **Tension** : « Le soir, c'est toujours le même salon sous le même plafonnier. »
-3. **Désir et angle** : changer d'atmosphère sans sortir → ce soir, on ne sort pas, on change de ciel.
-4. **Promesse et faits** : une galaxie au plafond ou sur un mur, un bel objet une fois éteint ; faits = visuels. Aucun
-   bienfait sur le sommeil ou le bien-être ; alimentation, réglages et dimensions non affirmés.
-5. **Objections** : où s'affiche la galaxie, faut-il le noir complet, l'objet le jour, prix et réglages (information dédiée).
-6. **Parcours** : « Ce soir, on ne sort pas. *On change de ciel.* » → « La même pièce, une autre soirée » → « Où le poser
-   ce soir » → l'idée → « Éteint, un objet de décor » → appel → FAQ « Avant de l'allumer » → inscription.
+| | |
+|---|---|
+| Utilisateur | un enfant passionné d'espace (planètes, fusées, étoiles) — **décision de Thomas** |
+| Acheteur | son parent, qui cherche une surprise |
+| Situation d'achat | anniversaire, Noël, ou envie de lui faire plaisir |
+| Tension (mots du parent) | « Il connaît toutes les planètes ; je voudrais lui offrir autre chose qu'un livre de plus. » |
+| Désir | le voir émerveillé, le laisser imaginer |
+| Angle unique | offrir à son enfant sa propre galaxie dans sa chambre |
+| Promesse tenable | une galaxie violette au plafond ou sur un mur ; un bouton éclairé facile à repérer ; une « petite planète » sur l'étagère le jour |
+| Objections traitées | où s'affiche la galaxie, peut-il l'allumer seul, l'aide-t-il le soir (« nous ne promettons rien de tel »), et le jour, ce que permet la démo |
+| **Faits** | visuels du kit (sphère indigo, arceau, objectif, socle, bouton violet ; projection au plafond ou au mur) |
+| **Non renseigné** | âge conseillé, alimentation, réglages, dimensions, garantie (questions masquées, prêtes dans l'éditeur) |
+| Exclusions | aucun effet sur le coucher, le sommeil ou la peur du noir ; aucun âge ni réglage inventé |
 
-Pages réécrites : accueil, fiche (rôle, ce qu'on voit, où le poser ; « Préparer sa soirée »), « Une galaxie par pièce »,
-aide, pied, SEO. Preuves : `docs/preuves/copywriting/noctil/`.
+Pages : accueil (« Offrez-lui sa propre galaxie, *au plafond de sa chambre* » → « Sa chambre, *son univers* » → « Sa
+chambre d'abord, *et ailleurs ensuite* » → « Quand le jour tombe, son univers s'allume » → « Le jour, *une planète sur
+l'étagère* » → « Le cadeau qui fait lever les yeux » → « Avant de l'offrir »), fiche (« Projecteur de galaxies · à
+offrir », « Préparer *la surprise* »), « Où poser sa galaxie » (ex-« Une galaxie par pièce »), aide, menus, pied, SEO.
+
+**Visuels — incohérence signalée** : le kit ne contient **aucune chambre d'enfant**. Les scènes montrent un salon
+cinéma, un bureau, un loft, une chambre et un coin lecture d'adultes. Choix faits avec les médias disponibles (tous
+restent utilisés, c'est testé) : ouverture sur l'objet seul (halo), chambre représentée par la vue « au-dessus du lit »
+et l'alcôve à coussins ; les autres scènes sont présentées comme « ailleurs dans la maison » (soirée film en famille,
+coin lecture pour une histoire). Pour une cohérence complète, il faudrait de nouveaux visuels de chambre d'enfant (sans
+personne). Code : `tests/noctil-traverse-fixtures.ts`. Preuves : `docs/preuves/copywriting/noctil/`.
 
 ### TRAVERSE — Produit spécifique — **réécrit**
 
